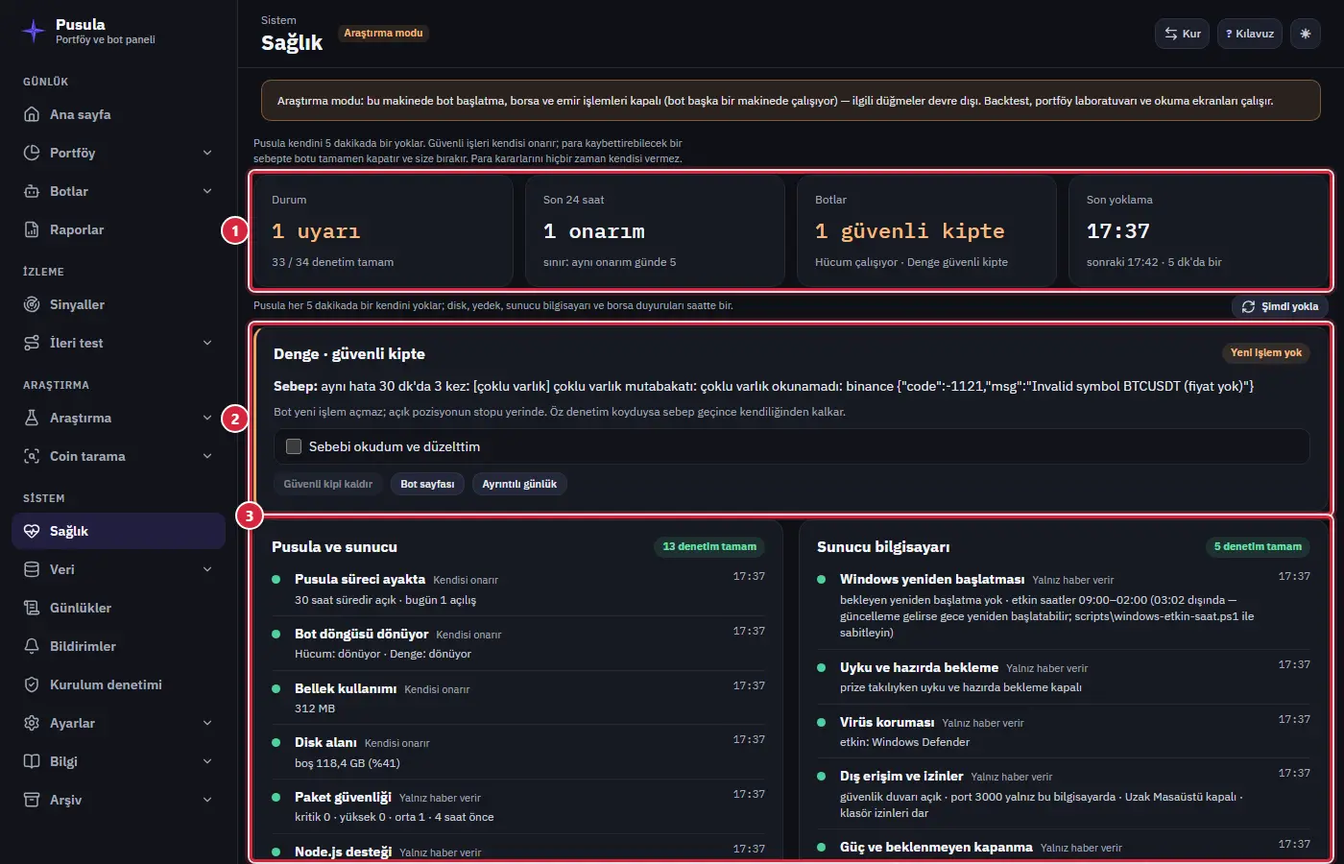
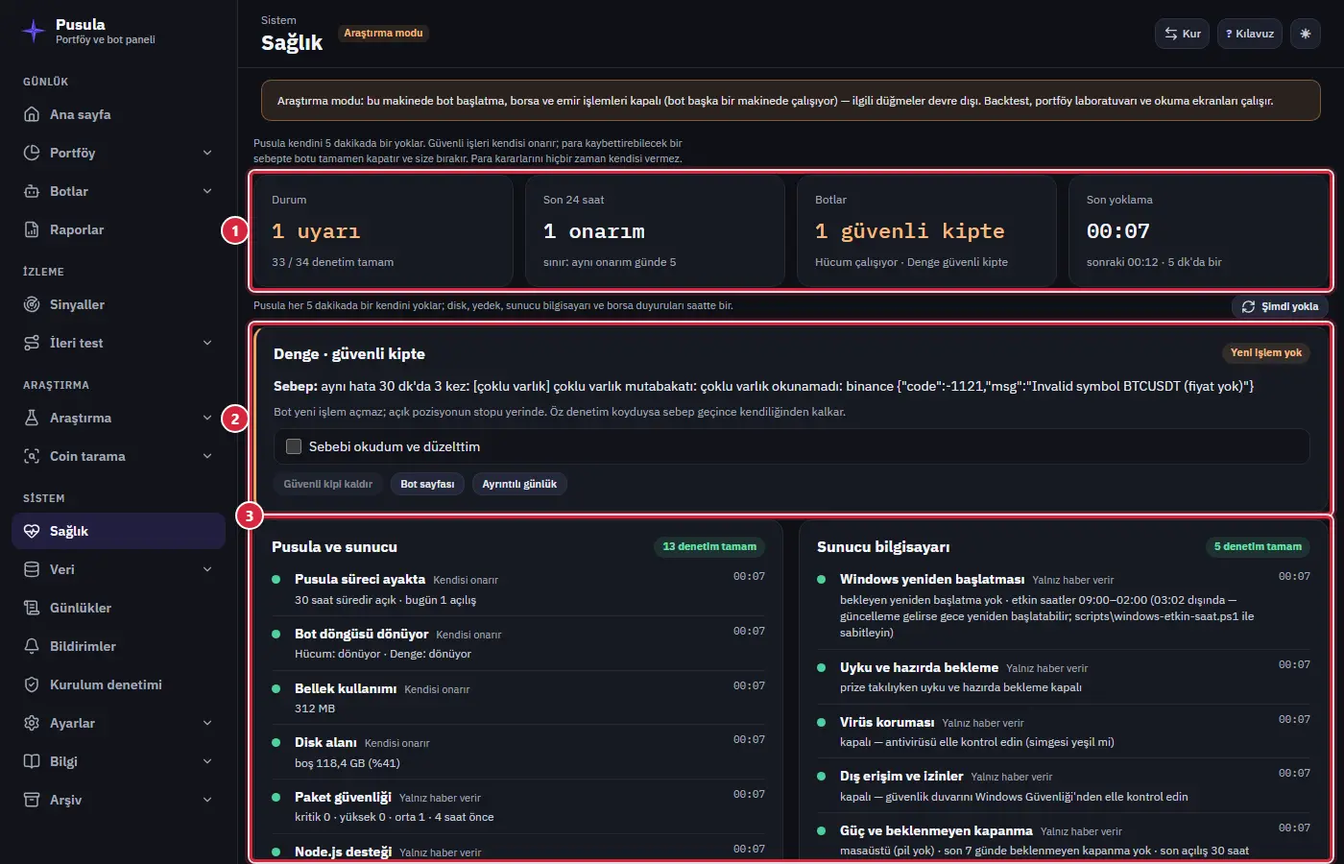
Pusula 69.8

diff --git a/public/index.html b/public/index.html
@@ -39,7 +39,7 @@
   <link rel="stylesheet" href="css/utilities.css">
   <!-- Tema stillerden HEMEN SONRA ve senkron: `data-theme` ilk boyamadan
        önce yazılmazsa sayfa bir an yanlış temada açılır. -->
-  <script src="js/core/tema.js?v=69.7"></script>
+  <script src="js/core/tema.js?v=69.8"></script>
 </head>
 <body>
 
@@ -2771,84 +2771,84 @@
   <!-- Çekirdek ÖNCE: `indicatorUI.js` ve `app.js` `AG.api` / `AG.dom`
        üzerinden çalışıyor, bunlar tanımlı değilken yüklenirlerse ilk
        istekte patlarlar (bkz. `PLAN-MOTOR.md` §8, P2). -->
-  <script src="js/core/dom.js?v=69.7"></script>
-  <script src="js/core/format.js?v=69.7"></script>
+  <script src="js/core/dom.js?v=69.8"></script>
+  <script src="js/core/format.js?v=69.8"></script>
   <!-- Yeni panel F4: portföy ölçütleri (saf; Sharpe, düşüş, sağlık puanı) — js/pages/pano.js kullanır. -->
-  <script src="js/core/olcut.js?v=69.7"></script>
-  <script src="js/core/paraPlan.js?v=69.7"></script>
-  <script src="js/core/api.js?v=69.7"></script>
-  <script src="js/core/bildirim.js?v=69.7"></script>
-  <script src="js/core/ilerleme.js?v=69.7"></script>
-  <script src="js/core/tablo.js?v=69.7"></script>
-  <script src="js/core/rota.js?v=69.7"></script>
-  <script src="js/core/sozluk.js?v=69.7"></script>
-  <script src="js/core/md.js?v=69.7"></script>
-  <script src="js/core/grafik.js?v=69.7"></script>
-  <script src="js/core/pwa.js?v=69.7"></script>
+  <script src="js/core/olcut.js?v=69.8"></script>
+  <script src="js/core/paraPlan.js?v=69.8"></script>
+  <script src="js/core/api.js?v=69.8"></script>
+  <script src="js/core/bildirim.js?v=69.8"></script>
+  <script src="js/core/ilerleme.js?v=69.8"></script>
+  <script src="js/core/tablo.js?v=69.8"></script>
+  <script src="js/core/rota.js?v=69.8"></script>
+  <script src="js/core/sozluk.js?v=69.8"></script>
+  <script src="js/core/md.js?v=69.8"></script>
+  <script src="js/core/grafik.js?v=69.8"></script>
+  <script src="js/core/pwa.js?v=69.8"></script>
   <!-- Sayfa modülleri: çekirdekten SONRA, app.js'ten ÖNCE. -->
-  <script src="js/pages/dock.js?v=69.7"></script>
-  <script src="js/pages/bots.js?v=69.7"></script>
-  <script src="js/pages/backtest.js?v=69.7"></script>
-  <script src="js/pages/backtestIs.js?v=69.7"></script>
-  <script src="js/pages/backtestEkran.js?v=69.7"></script>
-  <script src="js/pages/seciciler.js?v=69.7"></script>
-  <script src="js/pages/analiz.js?v=69.7"></script>
+  <script src="js/pages/dock.js?v=69.8"></script>
+  <script src="js/pages/bots.js?v=69.8"></script>
+  <script src="js/pages/backtest.js?v=69.8"></script>
+  <script src="js/pages/backtestIs.js?v=69.8"></script>
+  <script src="js/pages/backtestEkran.js?v=69.8"></script>
+  <script src="js/pages/seciciler.js?v=69.8"></script>
+  <script src="js/pages/analiz.js?v=69.8"></script>
   <!-- Borsa hesapları (62.7): sekme = hesap (hesaplar.js) + Ayarlar › Borsa (anahtar, döküm, canlı hesap) + Arşiv (elle emir, kâğıt test) ve
        emir/işlem tabloları (Pusula P3). İkisi de kendi kendine başlar, #tab-exchange kaplarını doldurur. -->
-  <script src="js/pages/borsa.js?v=69.7"></script>
-  <script src="js/pages/hesaplar.js?v=69.7"></script>
-  <script src="js/pages/arastirma.js?v=69.7"></script>
-  <script src="js/pages/stratejiler.js?v=69.7"></script>
-  <script src="js/pages/bindirme.js?v=69.7"></script>
-  <script src="js/pages/bindirmeIslem.js?v=69.7"></script>
-  <script src="js/pages/ileri.js?v=69.7"></script>
-  <script src="js/pages/tarama.js?v=69.7"></script>
-  <script src="js/pages/listeler.js?v=69.7"></script>
-  <script src="js/pages/dikkat.js?v=69.7"></script>
-  <script src="js/pages/izle.js?v=69.7"></script>
-  <script src="js/pages/defter.js?v=69.7"></script>
-  <script src="js/pages/arastirmaOzet.js?v=69.7"></script>
-  <script src="js/pages/gunluk.js?v=69.7"></script>
-  <script src="js/pages/saglik.js?v=69.7"></script>
-  <script src="js/pages/bildirimMerkezi.js?v=69.7"></script>
-  <script src="js/pages/raporlar.js?v=69.7"></script>
-  <script src="js/pages/tasima.js?v=69.7"></script>
-  <script src="js/pages/kurulum.js?v=69.7"></script>
-  <script src="js/pages/kurulumDenetimi.js?v=69.7"></script>
-  <script src="js/pages/botPerformans.js?v=69.7"></script>
-  <script src="js/pages/gunlukArsiv.js?v=69.7"></script>
+  <script src="js/pages/borsa.js?v=69.8"></script>
+  <script src="js/pages/hesaplar.js?v=69.8"></script>
+  <script src="js/pages/arastirma.js?v=69.8"></script>
+  <script src="js/pages/stratejiler.js?v=69.8"></script>
+  <script src="js/pages/bindirme.js?v=69.8"></script>
+  <script src="js/pages/bindirmeIslem.js?v=69.8"></script>
+  <script src="js/pages/ileri.js?v=69.8"></script>
+  <script src="js/pages/tarama.js?v=69.8"></script>
+  <script src="js/pages/listeler.js?v=69.8"></script>
+  <script src="js/pages/dikkat.js?v=69.8"></script>
+  <script src="js/pages/izle.js?v=69.8"></script>
+  <script src="js/pages/defter.js?v=69.8"></script>
+  <script src="js/pages/arastirmaOzet.js?v=69.8"></script>
+  <script src="js/pages/gunluk.js?v=69.8"></script>
+  <script src="js/pages/saglik.js?v=69.8"></script>
+  <script src="js/pages/bildirimMerkezi.js?v=69.8"></script>
+  <script src="js/pages/raporlar.js?v=69.8"></script>
+  <script src="js/pages/tasima.js?v=69.8"></script>
+  <script src="js/pages/kurulum.js?v=69.8"></script>
+  <script src="js/pages/kurulumDenetimi.js?v=69.8"></script>
+  <script src="js/pages/botPerformans.js?v=69.8"></script>
+  <script src="js/pages/gunlukArsiv.js?v=69.8"></script>
   <!-- 63.2: Veri ekranı — özet + kullanana göre gruplar (js/pages/veri.js). -->
-  <script src="js/pages/veri.js?v=69.7"></script>
+  <script src="js/pages/veri.js?v=69.8"></script>
   <!-- 63.3: Sinyaller ekranı — bugün sistem ne diyor (js/pages/sinyaller.js). -->
-  <script src="js/pages/sinyaller.js?v=69.7"></script>
-  <script src="js/pages/pine.js?v=69.7"></script>
-  <script src="js/pages/kurCevirici.js?v=69.7"></script>
+  <script src="js/pages/sinyaller.js?v=69.8"></script>
+  <script src="js/pages/pine.js?v=69.8"></script>
+  <script src="js/pages/kurCevirici.js?v=69.8"></script>
   <!-- 64.8: sunucuya yazma + kuyruk ortak parçası (Portföyüm ve İşlem defterim kullanır) — portfoyum.js'ten ÖNCE. -->
-  <script src="js/pages/evKuyruk.js?v=69.7"></script>
-  <script src="js/pages/portfoyum.js?v=69.7"></script>
-  <script src="js/pages/portfoyumRapor.js?v=69.7"></script>
-  <script src="js/pages/islemDefteri.js?v=69.7"></script>
-  <script src="js/pages/tasarimci.js?v=69.7"></script>
-  <script src="js/pages/modelPortfoy.js?v=69.7"></script>
+  <script src="js/pages/evKuyruk.js?v=69.8"></script>
+  <script src="js/pages/portfoyum.js?v=69.8"></script>
+  <script src="js/pages/portfoyumRapor.js?v=69.8"></script>
+  <script src="js/pages/islemDefteri.js?v=69.8"></script>
+  <script src="js/pages/tasarimci.js?v=69.8"></script>
+  <script src="js/pages/modelPortfoy.js?v=69.8"></script>
   <!-- Yeni panel F4: Pano · Varlıklar · Hedefim · Takvim + üst çubuk Ben/Fırat/Tümü · $/₺/Gizli (portfoy.js çağırır). -->
-  <script src="js/pages/paraEkle.js?v=69.7"></script>
-  <script src="js/pages/pano.js?v=69.7"></script>
-  <script src="js/pages/portfoy.js?v=69.7"></script>
-  <script src="js/pages/kabuk.js?v=69.7"></script>
-  <script src="js/pages/botDil.js?v=69.7"></script>
-  <script src="js/pages/hisseYapilari.js?v=69.7"></script>
-  <script src="js/pages/portfoyBotlari.js?v=69.7"></script>
-  <script src="js/pages/botlar.js?v=69.7"></script>
-  <script src="js/pages/anasayfa.js?v=69.7"></script>
-  <script src="js/pages/ayarlar.js?v=69.7"></script>
-  <script src="js/pages/kitapcik.js?v=69.7"></script>
-  <script src="js/pages/kilavuz.js?v=69.7"></script>
-  <script src="chartIndicators.js?v=69.7"></script>
-  <script src="indicatorUI.js?v=69.7"></script>
-  <script src="app.js?v=69.7"></script>
+  <script src="js/pages/paraEkle.js?v=69.8"></script>
+  <script src="js/pages/pano.js?v=69.8"></script>
+  <script src="js/pages/portfoy.js?v=69.8"></script>
+  <script src="js/pages/kabuk.js?v=69.8"></script>
+  <script src="js/pages/botDil.js?v=69.8"></script>
+  <script src="js/pages/hisseYapilari.js?v=69.8"></script>
+  <script src="js/pages/portfoyBotlari.js?v=69.8"></script>
+  <script src="js/pages/botlar.js?v=69.8"></script>
+  <script src="js/pages/anasayfa.js?v=69.8"></script>
+  <script src="js/pages/ayarlar.js?v=69.8"></script>
+  <script src="js/pages/kitapcik.js?v=69.8"></script>
+  <script src="js/pages/kilavuz.js?v=69.8"></script>
+  <script src="chartIndicators.js?v=69.8"></script>
+  <script src="indicatorUI.js?v=69.8"></script>
+  <script src="app.js?v=69.8"></script>
   <!-- app.js parçaları (Pusula P6): aynı küresel kapsam, app.js'ten HEMEN SONRA. -->
-  <script src="js/app/riskEkrani.js?v=69.7"></script>
-  <script src="js/app/olaylar.js?v=69.7"></script>
-  <script src="js/app/backtestAnaliz.js?v=69.7"></script>
+  <script src="js/app/riskEkrani.js?v=69.8"></script>
+  <script src="js/app/olaylar.js?v=69.8"></script>
+  <script src="js/app/backtestAnaliz.js?v=69.8"></script>
 </body>
 </html>

diff --git a/lib/sunucuBilgisayari.js b/lib/sunucuBilgisayari.js
@@ -71,7 +71,14 @@ const PS = [
   "'acilis:' + (Get-CimInstance Win32_OperatingSystem).LastBootUpTime.ToString('o')",
   // 69.4 disk sağlığı (SMART'tan türeyen Windows değerlendirmesi; ek araç yok)
   "Get-PhysicalDisk -ErrorAction SilentlyContinue | ForEach-Object { 'disk:' + ($_.FriendlyName -replace ':', ' ') + ':' + $_.HealthStatus + ':' + $_.OperationalStatus }",
-  // 69.6 güvenlik: antivirüs ürünleri, Defender, güvenlik duvarı
+].join('; ');
+/**
+ * 69.6 güvenlik sorguları — 69.8'den beri VARSAYILAN KAPALI (ek.guvenlik === true ile açılır). 2026-10-21 sunucuda Kaspersky
+ * davranış izleyicisi Pusula'yı (server.js) 'PDM:Trojan.Win32.Generic' diye silip karantinaya aldı: antivirüs ürünlerini,
+ * güvenlik duvarını ve dinleyen portları soran bir arka plan programı casus yazılım gibi görünüyor. Kullanıcı kuralı: sunucuyu
+ * bozacak davranış eklenmez (bellek feedback-sunucuyu-bozma).
+ */
+const PS_GUVENLIK = [
   "Get-CimInstance -Namespace root/SecurityCenter2 -ClassName AntiVirusProduct -ErrorAction SilentlyContinue | ForEach-Object { 'av:' + ($_.displayName -replace ':', ' ') + ':' + $_.productState }",
   "try { $m = Get-MpComputerStatus -ErrorAction Stop; 'mp:' + $m.RealTimeProtectionEnabled + ':x:' + $m.AMServiceEnabled + ':' + $m.AntivirusSignatureLastUpdated.ToString('o') } catch { }",
   "Get-NetFirewallProfile -ErrorAction SilentlyContinue | ForEach-Object { 'fw:' + $_.Name + ':' + $_.Enabled }",
@@ -89,17 +96,18 @@ async function olc(calistir, platform = process.platform, ek = {}) {
   const guvenli = async (k, a, sure = 20000) => { try { return await calistir(k, a, { sure }); } catch (e) { hatalar.push(`${k}: ${e.message}`); return { kod: 1, cikti: '' }; } };
   const UX = 'HKLM\\SOFTWARE\\Microsoft\\WindowsUpdate\\UX\\Settings';
   const ILKE = 'HKLM\\SOFTWARE\\Policies\\Microsoft\\Windows\\WindowsUpdate';   // 69.3: ilke (scripts/windows-etkin-saat.ps1) önce gelir
-  const port = Number.isFinite(+ek.port) && +ek.port > 0 ? +ek.port : null;
-  const klasorler = (ek.klasorler || []).filter(Boolean);
+  const guvenlik = ek.guvenlik === true;   // 69.8: varsayılan kapalı (antivirüs yanlış alarmı, yukarıda)
+  const port = guvenlik && Number.isFinite(+ek.port) && +ek.port > 0 ? +ek.port : null;
+  const klasorler = guvenlik ? (ek.klasorler || []).filter(Boolean) : [];
   const [rr, rp, ux, sb, hb, ps, il, rdp, pp, kz] = await Promise.all([
     guvenli('reg', ['query', 'HKLM\\SOFTWARE\\Microsoft\\Windows\\CurrentVersion\\WindowsUpdate\\Auto Update\\RebootRequired']),
     guvenli('reg', ['query', 'HKLM\\SOFTWARE\\Microsoft\\Windows\\CurrentVersion\\Component Based Servicing\\RebootPending']),
     guvenli('reg', ['query', UX]),
     guvenli('powercfg', ['/q', 'SCHEME_CURRENT', 'SUB_SLEEP', 'STANDBYIDLE']),
     guvenli('powercfg', ['/q', 'SCHEME_CURRENT', 'SUB_SLEEP', 'HIBERNATEIDLE']),
-    guvenli('powershell.exe', ['-NoProfile', '-NonInteractive', '-ExecutionPolicy', 'Bypass', '-Command', PS], 45000),
+    guvenli('powershell.exe', ['-NoProfile', '-NonInteractive', '-ExecutionPolicy', 'Bypass', '-Command', guvenlik ? `${PS}; ${PS_GUVENLIK}` : PS], 45000),
     guvenli('reg', ['query', ILKE]),
-    guvenli('reg', ['query', 'HKLM\\SYSTEM\\CurrentControlSet\\Control\\Terminal Server', '/v', 'fDenyTSConnections']),
+    guvenlik ? guvenli('reg', ['query', 'HKLM\\SYSTEM\\CurrentControlSet\\Control\\Terminal Server', '/v', 'fDenyTSConnections']) : Promise.resolve({ kod: 1, cikti: '' }),
     port ? guvenli('powershell.exe', ['-NoProfile', '-NonInteractive', '-ExecutionPolicy', 'Bypass', '-Command', psPort(port)], 30000) : Promise.resolve({ kod: 1, cikti: '' }),
     klasorler.length ? guvenli('powershell.exe', ['-NoProfile', '-NonInteractive', '-ExecutionPolicy', 'Bypass', '-File', require('./klasorIzni').BETIK, ...klasorler.flatMap(k => ['-Klasor', k]), '-Durum'], 45000) : Promise.resolve(null),
   ]);
@@ -115,7 +123,7 @@ async function olc(calistir, platform = process.platform, ek = {}) {
     uyku: sb.kod === 0 ? powercfgAyristir(sb.cikti) : null, hazirda: hb.kod === 0 ? powercfgAyristir(hb.cikti) : null,
     pil: p.pil, olay: p.olay, acilis: p.acilis, diskler: p.diskler, hatalar,
     // 69.6 güvenlik
-    guvenlik: {
+    guvenlik: !guvenlik ? { kapali: true } : {
       av: p.av || [], defender: p.defender || null, guvenlikDuvari: p.guvenlikDuvari || [],
       rdpAcik: rdp.kod === 0 ? regDword(rdp.cikti, 'fDenyTSConnections') === 0 : null,
       port, dinleme: port ? psAyristir(pp.cikti).dinleme || [] : null,

diff --git a/lib/guncelleme.js b/lib/guncelleme.js
@@ -176,6 +176,13 @@ function canliKumesi(dosyalar, oku) {
   return kume;
 }
 
+/**
+ * 69.8: güncelleyicinin KENDİ ürettiği izlenen dosyalar. Eski sürümler paketleri `npm install` ile kurup package-lock.json'u
+ * sunucuda değiştiriyordu; sonraki güncelleme bunu "kullanıcı değişikliği" sanıp elle bekliyordu (2026-10-21). Bu dosyalar
+ * çakışmada durdurmaz: birleştirmeden hemen önce depodaki hâline döndürülür (paketler yeni kilitten npm ci ile kurulur).
+ */
+const URETILEN = new Set(['package-lock.json']);
+
 /* ── Plan (saf) ─────────────────────────────────────────────────────────── */
 /**
  * girdi: { ata: bool (HEAD origin/main'in atası mı), degisen: [yol], kirli: [yol] (sunucuda commit'lenmemiş izlenen dosyalar),
@@ -185,15 +192,16 @@ function canliKumesi(dosyalar, oku) {
 function planla({ ata, degisen, kirli, canli, onay, muaf = new Set() }) {
   if (!ata) return { karar: 'elle', neden: 'Sunucudaki kopyada GitHub\'a gönderilmemiş kayıt var (ör. liste kaydı). Önce sunucuda "git pull" ve "git push" yapın; güncelleme ondan sonra kendiliğinden kurulur.' };
   const kirliK = new Set(kirli);
-  const cakisan = degisen.filter(f => kirliK.has(f));
+  const geriAlinacak = degisen.filter(f => kirliK.has(f) && URETILEN.has(f));
+  const cakisan = degisen.filter(f => kirliK.has(f) && !URETILEN.has(f));
   if (cakisan.length) return { karar: 'elle', cakisan, neden: `Güncelleme, sunucuda değiştirilmiş dosyaya dokunuyor (${cakisan.join(', ')}). Sunucudaki ayarlarınız ezilmesin diye kurulmadı; geliştirme sohbetine haber verin.` };
   const baslatma = degisen.filter(f => BASLATMA.test(f));
   if (baslatma.length) return { karar: 'elle', baslatma, neden: `Başlatma dosyaları değişti (${baslatma.join(', ')}). Pusula çalışırken değiştirilemez: Pusula'yı durdurun, "git pull" yapın, yeniden başlatın.` };
   // K1 (DENETIM-CANLI-ALTYAPI): İZİN LİSTESİ — yalnız OTOMATIK desenine uyan VE canlı kapanışta olmayan dosyalar onaysız kurulur;
   // geri kalan her şey (server.js, güvenlik, güncelleyicinin kendisi, Telegram komutları, paketler, bilinmeyen yeni dosyalar) onay.
   const canliDosyalar = degisen.filter(f => !muaf.has(f) && (canli.has(f) || PAKET.includes(f) || !OTOMATIK.some(r => r.test(f))));
-  if (canliDosyalar.length && !onay) return { karar: 'onay', canliDosyalar, neden: `Bot kodu değişti (${canliDosyalar.slice(0, 5).join(', ')}${canliDosyalar.length > 5 ? ` +${canliDosyalar.length - 5}` : ''}) — kurulum onayınızı bekliyor.` };
-  return { karar: 'kur', canliDosyalar };
+  if (canliDosyalar.length && !onay) return { karar: 'onay', canliDosyalar, geriAlinacak, neden: `Bot kodu değişti (${canliDosyalar.slice(0, 5).join(', ')}${canliDosyalar.length > 5 ? ` +${canliDosyalar.length - 5}` : ''}) — kurulum onayınızı bekliyor.` };
+  return { karar: 'kur', canliDosyalar, geriAlinacak };
 }
 
 /* ── Durum dosyası ──────────────────────────────────────────────────────── */
@@ -418,6 +426,10 @@ async function calistir(ops) {
         return await bildirBirKez(d, 'error', 'Pusula güncellemesi: elle bakılmalı', [d.neden]);
       }
     }
+    for (const u of p.geriAlinacak || []) {
+      const g = git('checkout', '--', u);
+      log(g.kod === 0 ? `${u}: sunucuda eski paket kurulumunun bıraktığı değişiklik geri alındı (kullanıcı dosyası değil)` : `${u} geri alınamadı: ${String(g.cikti).trim().slice(0, 160)}`);
+    }
     const m = git('merge', '--ff-only', `origin/${DAL}`);
     if (m.kod !== 0) {
       adim('indir', 'hata', 'git merge başarısız');
@@ -558,4 +570,4 @@ async function kararlilikBekle(ops, surum, once) {
   return { tamam: true };
 }
 
-module.exports = { guvenliGit, imzaDenetle, imzaDosyasi, sshKeygenBul, gitConfigOzeti, IMZA_KOD, ADIMLAR, paketFarki, kilitVar, kararlilikBekle, KARARLILIK_MS, calistir, planla, canliKumesi, surumBilgisi, durumOku, durumYaz, gelistirmeMi, BASLATMA, PAKET, OTOMATIK, DAL };
+module.exports = { URETILEN, guvenliGit, imzaDenetle, imzaDosyasi, sshKeygenBul, gitConfigOzeti, IMZA_KOD, ADIMLAR, paketFarki, kilitVar, kararlilikBekle, KARARLILIK_MS, calistir, planla, canliKumesi, surumBilgisi, durumOku, durumYaz, gelistirmeMi, BASLATMA, PAKET, OTOMATIK, DAL };

diff --git a/lib/ozDenetim.js b/lib/ozDenetim.js
@@ -81,8 +81,8 @@ const DENETIMLER = [
   { kimlik: 'guncel', grup: 'sunucu', ad: 'Son güncelleme', kademe: 'haber', olcut: 'Son kurulum geri alındı ya da yarıda kaldı', nasil: 'Adımları Ayarlar › Güncelleme gösterir.' },
   { kimlik: 'wyb', grup: 'bilgisayar', ad: 'Windows yeniden başlatması', kademe: 'haber', olcut: 'Güncelleme yeniden başlatma bekliyor ve 03:02 etkin saatlerin dışında', nasil: 'Etkin saatleri 03:02\'yi kapsayacak biçimde ayarlamanızı ya da yeniden başlatmayı gündüz elle yapmanızı söyler.' },
   { kimlik: 'uyku', grup: 'bilgisayar', ad: 'Uyku ve hazırda bekleme', kademe: 'haber', olcut: 'Prize takılıyken bilgisayar boşta uyuyor ya da hazırda bekliyor', nasil: 'Güç ayarlarında "Asla" seçmenizi söyler (uyuyan bilgisayarda Pusula çalışmaz).' },
-  { kimlik: 'antivirus', grup: 'bilgisayar', ad: 'Virüs koruması', kademe: 'haber', olcut: 'Etkin antivirüs yok, gerçek zamanlı koruma kapalı ya da tanımlar 7 günden eski', nasil: 'Saatte bir okur; ayar değiştirmez. Windows Güvenliği › Virüs ve tehdit koruması.' },
-  { kimlik: 'erisim', grup: 'bilgisayar', ad: 'Dış erişim ve izinler', kademe: 'haber', olcut: 'Güvenlik duvarı kapalı, Pusula portu ağa açık, Uzak Masaüstü açık ya da Pusula klasörlerinde geniş izin', nasil: 'Saatte bir okur; ayar değiştirmez. Klasör izni: scripts\\klasor-izin.ps1.' },
+  { kimlik: 'antivirus', grup: 'bilgisayar', ad: 'Virüs koruması', kademe: 'haber', olcut: 'Etkin antivirüs yok, gerçek zamanlı koruma kapalı ya da tanımlar 7 günden eski', nasil: '69.8\'den beri KAPALI: antivirüs ürünlerini soran program antivirüse (Kaspersky) virüs gibi görünüyor. Elle: antivirüs simgesi yeşil mi, Windows Güvenliği › Virüs ve tehdit koruması.' },
+  { kimlik: 'erisim', grup: 'bilgisayar', ad: 'Dış erişim ve izinler', kademe: 'haber', olcut: 'Güvenlik duvarı kapalı, Pusula portu ağa açık, Uzak Masaüstü açık ya da Pusula klasörlerinde geniş izin', nasil: '69.8\'den beri KAPALI (antivirüs yanlış alarmı). Elle: Windows Güvenliği › Güvenlik duvarı; klasör izni: scripts\\klasor-izin.ps1 -Durum.' },
   { kimlik: 'guc', grup: 'bilgisayar', ad: 'Güç ve beklenmeyen kapanma', kademe: 'haber', olcut: 'Pilden çalışıyor (elektrik kesik) ya da son 7 günde beklenmeyen kapanma', nasil: '' },
   { kimlik: 'baglanti', grup: 'borsa', ad: 'Borsa bağlantısı', kademe: 'onar', olcut: 'Bot borsaya bağlı değil ya da borsa yürütücüsü durdu', nasil: 'Bağlantı 1, 2, 5, 10, 30 dk arayla yeniden denenir; geri çekilme bitince yürütücü kendisi açılır.' },
   { kimlik: 'fiyat', grup: 'borsa', ad: 'Fiyat tazeliği', kademe: 'koru', olcut: 'Borsa fiyatı 10 dk okunamadı ya da ikinci kaynaktan %3\'ten fazla sapıyor', nasil: 'Her yoklamada yeniden çekilir; sapma varsa botlar güvenli kipe girer, sapma %1\'in altına inince çıkar.' },
@@ -602,6 +602,7 @@ class OzDenetim {
         if (p.hata) return { durum: 'bilinmiyor', ayrinti: `ölçülemedi: ${String(p.hata).slice(0, 100)}` };
         const g = p.guvenlik;
         if (!g) return { durum: 'bilinmiyor', ayrinti: 'güvenlik ölçümü yok (eski ölçüm)' };
+        if (g.kapali) return { durum: 'kapali', ayrinti: kimlik === 'antivirus' ? 'kapalı — antivirüsü elle kontrol edin (simgesi yeşil mi)' : 'kapalı — güvenlik duvarını Windows Güvenliği\'nden elle kontrol edin' };
         if (kimlik === 'antivirus') {
           const acik = (g.av || []).filter(x => x.acik);
           const d = g.defender;

diff --git a/public/indicators.html b/public/indicators.html
@@ -19,7 +19,7 @@
   <link rel="stylesheet" href="css/components.css">
   <link rel="stylesheet" href="css/kirilim.css">
   <link rel="stylesheet" href="css/utilities.css">
-  <script src="js/core/tema.js?v=69.7"></script>
+  <script src="js/core/tema.js?v=69.8"></script>
 
   <!-- Sayfa yerleşimi (gh-*) components.css'te, dar ekran kuralı css/kirilim.css'te (Pusula P5). -->
 </head>
@@ -99,13 +99,13 @@
   </main>
 
   <!-- Çekirdek ÖNCE — bkz. index.html'deki not. -->
-  <script src="js/core/dom.js?v=69.7"></script>
-  <script src="js/core/format.js?v=69.7"></script>
-  <script src="js/core/api.js?v=69.7"></script>
-  <script src="js/core/bildirim.js?v=69.7"></script>
-  <script src="js/core/tablo.js?v=69.7"></script>
-  <script src="chartIndicators.js?v=69.7"></script>
-  <script src="indicatorUI.js?v=69.7"></script>
-  <script src="indicators-page.js?v=69.7"></script>
+  <script src="js/core/dom.js?v=69.8"></script>
+  <script src="js/core/format.js?v=69.8"></script>
+  <script src="js/core/api.js?v=69.8"></script>
+  <script src="js/core/bildirim.js?v=69.8"></script>
+  <script src="js/core/tablo.js?v=69.8"></script>
+  <script src="chartIndicators.js?v=69.8"></script>
+  <script src="indicatorUI.js?v=69.8"></script>
+  <script src="indicators-page.js?v=69.8"></script>
 </body>
 </html>

diff --git a/server.js b/server.js
@@ -48,7 +48,7 @@ const KNOWN_TIMEFRAMES = ['1m', '5m', '15m', '30m', '1h', '4h', '1d'];
 // built with; a mismatch means the browser is running cached UI code against a
 // newer server, which silently reintroduces already-fixed bugs. Keep in sync
 // with APP_VERSION in public/app.js.
-const APP_VERSION = '69.7';
+const APP_VERSION = '69.8';
 
 /**
  * GİZLİ ANAHTARLAR `config.json`'DA DURMAZ.

diff --git a/public/sw.js b/public/sw.js
@@ -13,7 +13,7 @@
  *   · Yalnız 200 yanıtlar önbelleğe girer: giriş sayfası (401) ve reddedilen istek (403) girmez.
  */
 'use strict';
-const SURUM = '69.7';
+const SURUM = '69.8';
 const ONBELLEK = `pusula-kabuk-${SURUM}`;
 
 self.addEventListener('install', () => { self.skipWaiting(); });

diff --git a/public/app.js b/public/app.js
@@ -1,7 +1,7 @@
 // Must match APP_VERSION in server.js. If the browser is serving a cached
 // app.js against a newer server, the mismatch is surfaced instead of silently
 // running outdated UI logic.
-const APP_VERSION = '69.7';
+const APP_VERSION = '69.8';
 
 // Global State
 let ws = null;

diff --git a/public/kilavuz/bolumler/saglik.md b/public/kilavuz/bolumler/saglik.md
@@ -148,7 +148,7 @@ API anahtarları, Telegram jetonu ve sağlık adresleri `data/secrets.json` dosy
 - **Taşıma paketi haberi:** her taşıma paketi oluşturulduğunda Telegram'a haber gelir. Siz yapmadıysanız API anahtarlarını hemen yenileyin.
 - **Yalnız imzalı kod kurulur:** sunucu, geliştirme bilgisayarında imzalanmamış güncellemeyi kurmaz; Telegram'a kritik uyarı gider. Kurulum bir kerelik: [Kod imzası](#/kilavuz/ayarlar/kod-imzasi).
 - **Klasör izinleri:** Pusula klasörlerine yalnız Pusula'yı çalıştıran kullanıcı, SYSTEM ve yöneticiler erişir (`scripts\klasor-izin.ps1`).
-- **İki yeni denetim:** **Virüs koruması** (antivirüs gerçek zamanlı koruması açık mı, tanımlar güncel mi) ve **Dış erişim ve izinler** (güvenlik duvarı, panelin yalnız bu bilgisayarda dinlemesi, Uzak Masaüstü, klasör izinleri). İkisi de yalnız haber verir.
+- **Virüs koruması** ve **Dış erişim ve izinler** denetimleri **kapalı** (69.8): antivirüs ürünlerini, güvenlik duvarını ve açık portları soran bir arka plan programı antivirüse virüs gibi görünüyor — 21 Ekim'de sunucudaki Kaspersky bu yüzden Pusula'yı durdurdu. Bu ikisini elle kontrol edin: antivirüs simgesi yeşil mi, Windows Güvenliği › Güvenlik duvarı açık mı.
 
 ## Paket güvenliği ve Node desteği {#paket-guvenligi}
 

diff --git a/public/kilavuz/bolumler/surum-notlari.md b/public/kilavuz/bolumler/surum-notlari.md
@@ -2,6 +2,11 @@
 
 Her sürümde panelde ne değişti. Yeni bir sürüm geldiğinde Ana sayfada bir kez **"bu sürümde yeni"** kartı çıkar.
 
+## 69.8 — Antivirüs uyumu, güncellemenin takılmaması (2026-10-22) {#s69-8}
+
+- **Antivirüs yanlış alarmı giderildi:** 21 Ekim'de sunucudaki Kaspersky Pusula'yı virüs sanıp durdurdu. Pusula artık saatte bir antivirüs ürünlerini, güvenlik duvarını ve açık portları sormuyor; Sağlık sayfasında bu iki madde **kapalı** görünür, elle kontrol edilir.
+- **Güncelleme kendi izine takılmaz:** eski sürümün paket kurulumunda değiştirdiği paket listesi güncellemeyi artık "elle bakılmalı" diye durdurmaz; güncelleyici onu kendisi geri alır. Sizin ayar dosyalarınıza yine dokunulmaz.
+
 ## 69.7 — Borsa kütüphanesi güvenlik güncellemesi, örnek ad (2026-10-21) {#s69-7}
 
 - **Borsa kütüphanesi (ccxt) 4.5.89:** içindeki ağ paketinin (undici) yüksek önemli güvenlik açığı kapandı; paket taramasında açık kalmadı. Binance hata eşlemesinin bütün hücreleri ve gerçek Binance yoklaması (prod + demo) yeni sürümle yeniden doğrulandı.
